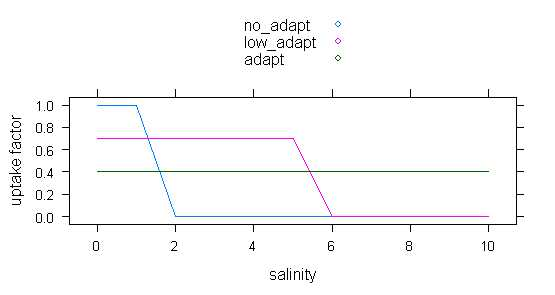
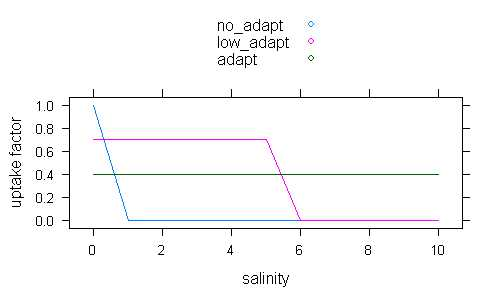
WinterSalt: salinity rules ; running
git-svn-id: file:///X/DropKatrinK/SVNRepository/Grassland/COMTESS/branches/WinterSalt@205 0913833f-c9c6-fa4f-9488-fa0ee326e6e0

diff --git a/CWaterPlant.cpp b/CWaterPlant.cpp
@@ -80,8 +80,8 @@ double oldmass=this->GetMass();
 // if (CEnvir::week==2||CEnvir::week==22||CEnvir::week==29)
 //enable again for more detailed spatial information
 //if (false)
-if (CEnvir::week==20&&CEnvir::year==SRunPara::RunPara.Tmax)
-//if (CEnvir::year<3)
+//if (CEnvir::week==20&&CEnvir::year==SRunPara::RunPara.Tmax)
+if (CEnvir::year<15)
 //if (true)
 {
  string filename=CEnvir::NameLogFile;
@@ -89,6 +89,7 @@ if (CEnvir::week==20&&CEnvir::year==SRunPara::RunPara.Tmax)
  CEnvir::AddLogEntry(CEnvir::RunNr,filename);
  CEnvir::AddLogEntry(CEnvir::year,filename);
  CEnvir::AddLogEntry(CEnvir::week,filename);
+ CEnvir::AddLogEntry(CWaterGridEnvir::salinity,filename);
  CEnvir::AddLogEntry(xcoord,filename);
  CEnvir::AddLogEntry(ycoord,filename);
  CEnvir::AddLogEntry(GetMass(),filename);    //biomass

diff --git a/CWaterGridEnvir.cpp b/CWaterGridEnvir.cpp
@@ -444,7 +444,7 @@ for an adaptation to salt.
 \todo validate rule/values
 */
 double SWaterTraits::saltTolCosts(){
-  if (saltTol<=1) return 0;
+  if (saltTol<1) return 0;
   if (saltTol<=5) return 0.3;
   return 0.6;
 } // salt tolerance costs
@@ -457,8 +457,8 @@ Translates Ellenberg Value saltTol to tolerance level of salt content.
 */
 double SWaterTraits::saltTolEffect(double salinity){
   double eff=1e-10;
-  if (saltTol<=1) {if (salinity<1) eff= 1};
-    else if (saltTol<=5) {if(salinity<7) eff= 1};
+  if (saltTol<1) {if (salinity<1.0) eff= 1;}
+    else if (saltTol<=5) {if(salinity<7.0) eff= 1;}
       else eff=1;
   return eff;
 } // salt tolerance effect

diff --git a/environment.cpp b/environment.cpp
@@ -10,6 +10,7 @@
 */
 /** \page changes Changes for the COMTESS-version
   \section secWatStr Water stress option
+  \image html ZOIs_Water_middle.png "New Rules' imagination"
   \par Extend class CCell with WaterLevel.
   A makro swiches in CGrid between an array of CCell and CWaterCell.
   \par Write derived class CWaterGridEnvir.
